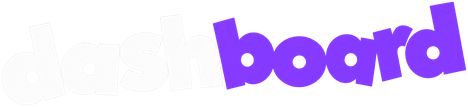
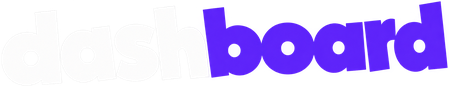
New header art, all at the What's On letter size
Each image is cropped to its letters and scaled so the purple lowercase
letters are the same height as What's On's. Drops the unused pill styles.

Claude-Session: https://claude.ai/code/session_013YuyzHba7WUNZFmHygSECG

Changed region(s): [[0.4365, 0.0, 0.9978, 0.8966]]

diff --git a/src/cineclock/static/site.css b/src/cineclock/static/site.css
@@ -2424,16 +2424,10 @@ a.venue-name:hover { text-decoration: underline; text-underline-offset: 3px; }
 
 /* Page headers drawn as purple pills: one height everywhere. */
 .page-title-art { line-height: 0; }
-.page-title-art img,
-.series-pill img { width: calc(var(--w) * 0.8); max-width: 100%; height: auto; }
-.series-pill img { width: calc(var(--w) * 0.55); }
+.page-title-art img { width: calc(var(--w) * 0.8); max-width: 100%; height: auto; }
 /* A shadow so the white letters read over a festival's banner. */
-.page-title-art img,
-.series-pill img { filter: drop-shadow(0 2px 3px rgba(0, 0, 0, 0.6)) drop-shadow(0 0 12px rgba(0, 0, 0, 0.5)); }
-@media (min-width: 40rem) {
-  .page-title-art img { width: var(--w); }
-  .series-pill img { width: calc(var(--w) * 0.65); }
-}
+.page-title-art img { filter: drop-shadow(0 2px 3px rgba(0, 0, 0, 0.6)) drop-shadow(0 0 12px rgba(0, 0, 0, 0.5)); }
+@media (min-width: 40rem) { .page-title-art img { width: var(--w); } }
 
 /* Home hub: three tiles under the hero. A column on phones, a row on wider screens. */
 .hub { display: grid; gap: 0.5rem; margin-top: 0.75rem; }
